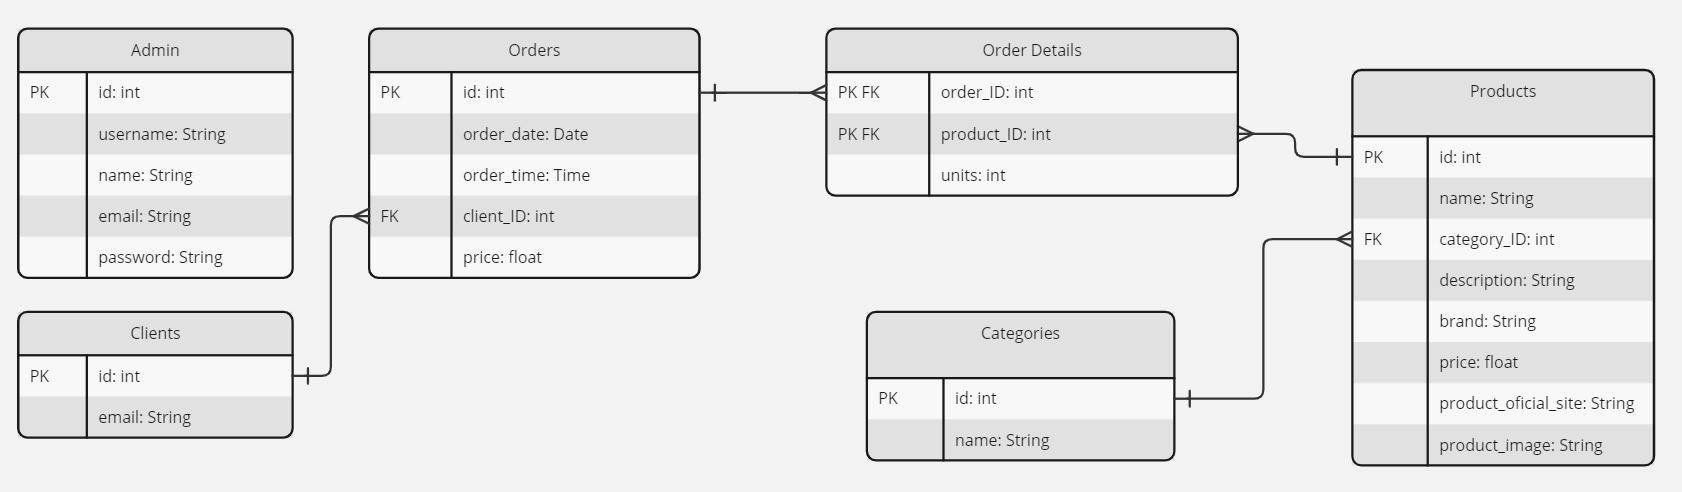
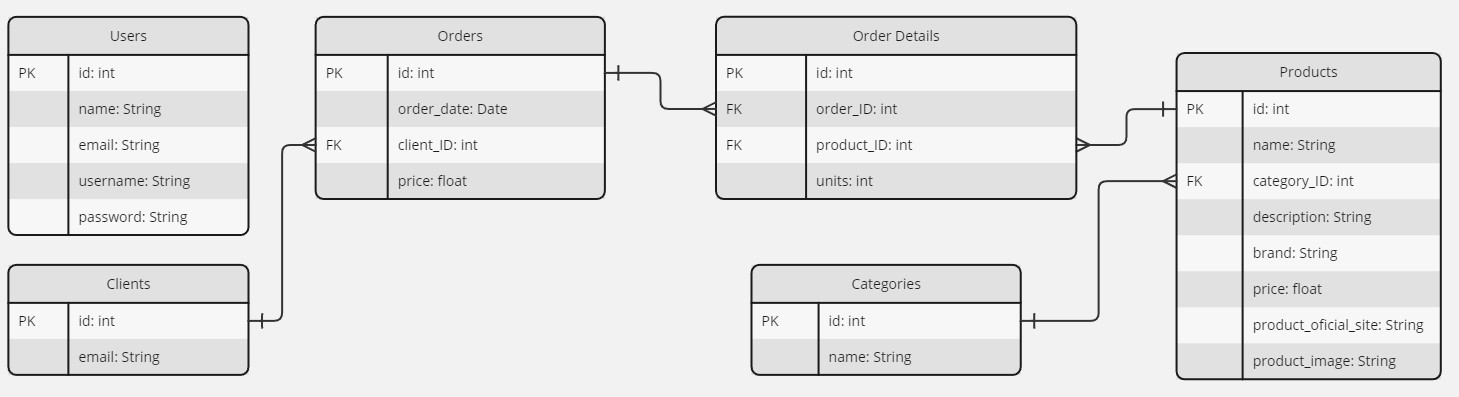
Corrections

diff --git a/database/migrations/2023_03_30_222654_create_orders_table.php b/database/migrations/2023_03_30_222654_create_orders_table.php
@@ -12,10 +12,9 @@ return new class extends Migration
     public function up(): void
     {
         Schema::create('orders', function (Blueprint $table) {
-            $table->id();                                   // order_ID
+            $table->id();                                 // order_ID
             $table->unsignedBigInteger('client_ID');      // FK
             $table->date('order_date');
-            $table->time('order_time');
             $table->float('price');
             $table->timestamps();
 

diff --git a/database/migrations/2014_10_12_000000_create_users_table.php b/database/migrations/2014_10_12_000000_create_users_table.php
@@ -15,6 +15,7 @@ return new class extends Migration
             $table->id();
             $table->string('name');
             $table->string('email')->unique();
+            $table->string('username')->unique();
             $table->timestamp('email_verified_at')->nullable();
             $table->string('password');
             $table->rememberToken();

diff --git a/database/migrations/2023_03_30_222714_create_order_details_table.php b/database/migrations/2023_03_30_222714_create_order_details_table.php
@@ -12,6 +12,7 @@ return new class extends Migration
     public function up(): void
     {
         Schema::create('order_details', function (Blueprint $table) {
+            $table->id();
             $table->unsignedBigInteger('order_ID');     // FK
             $table->unsignedBigInteger('product_ID');   // FK
             $table->integer('units');
